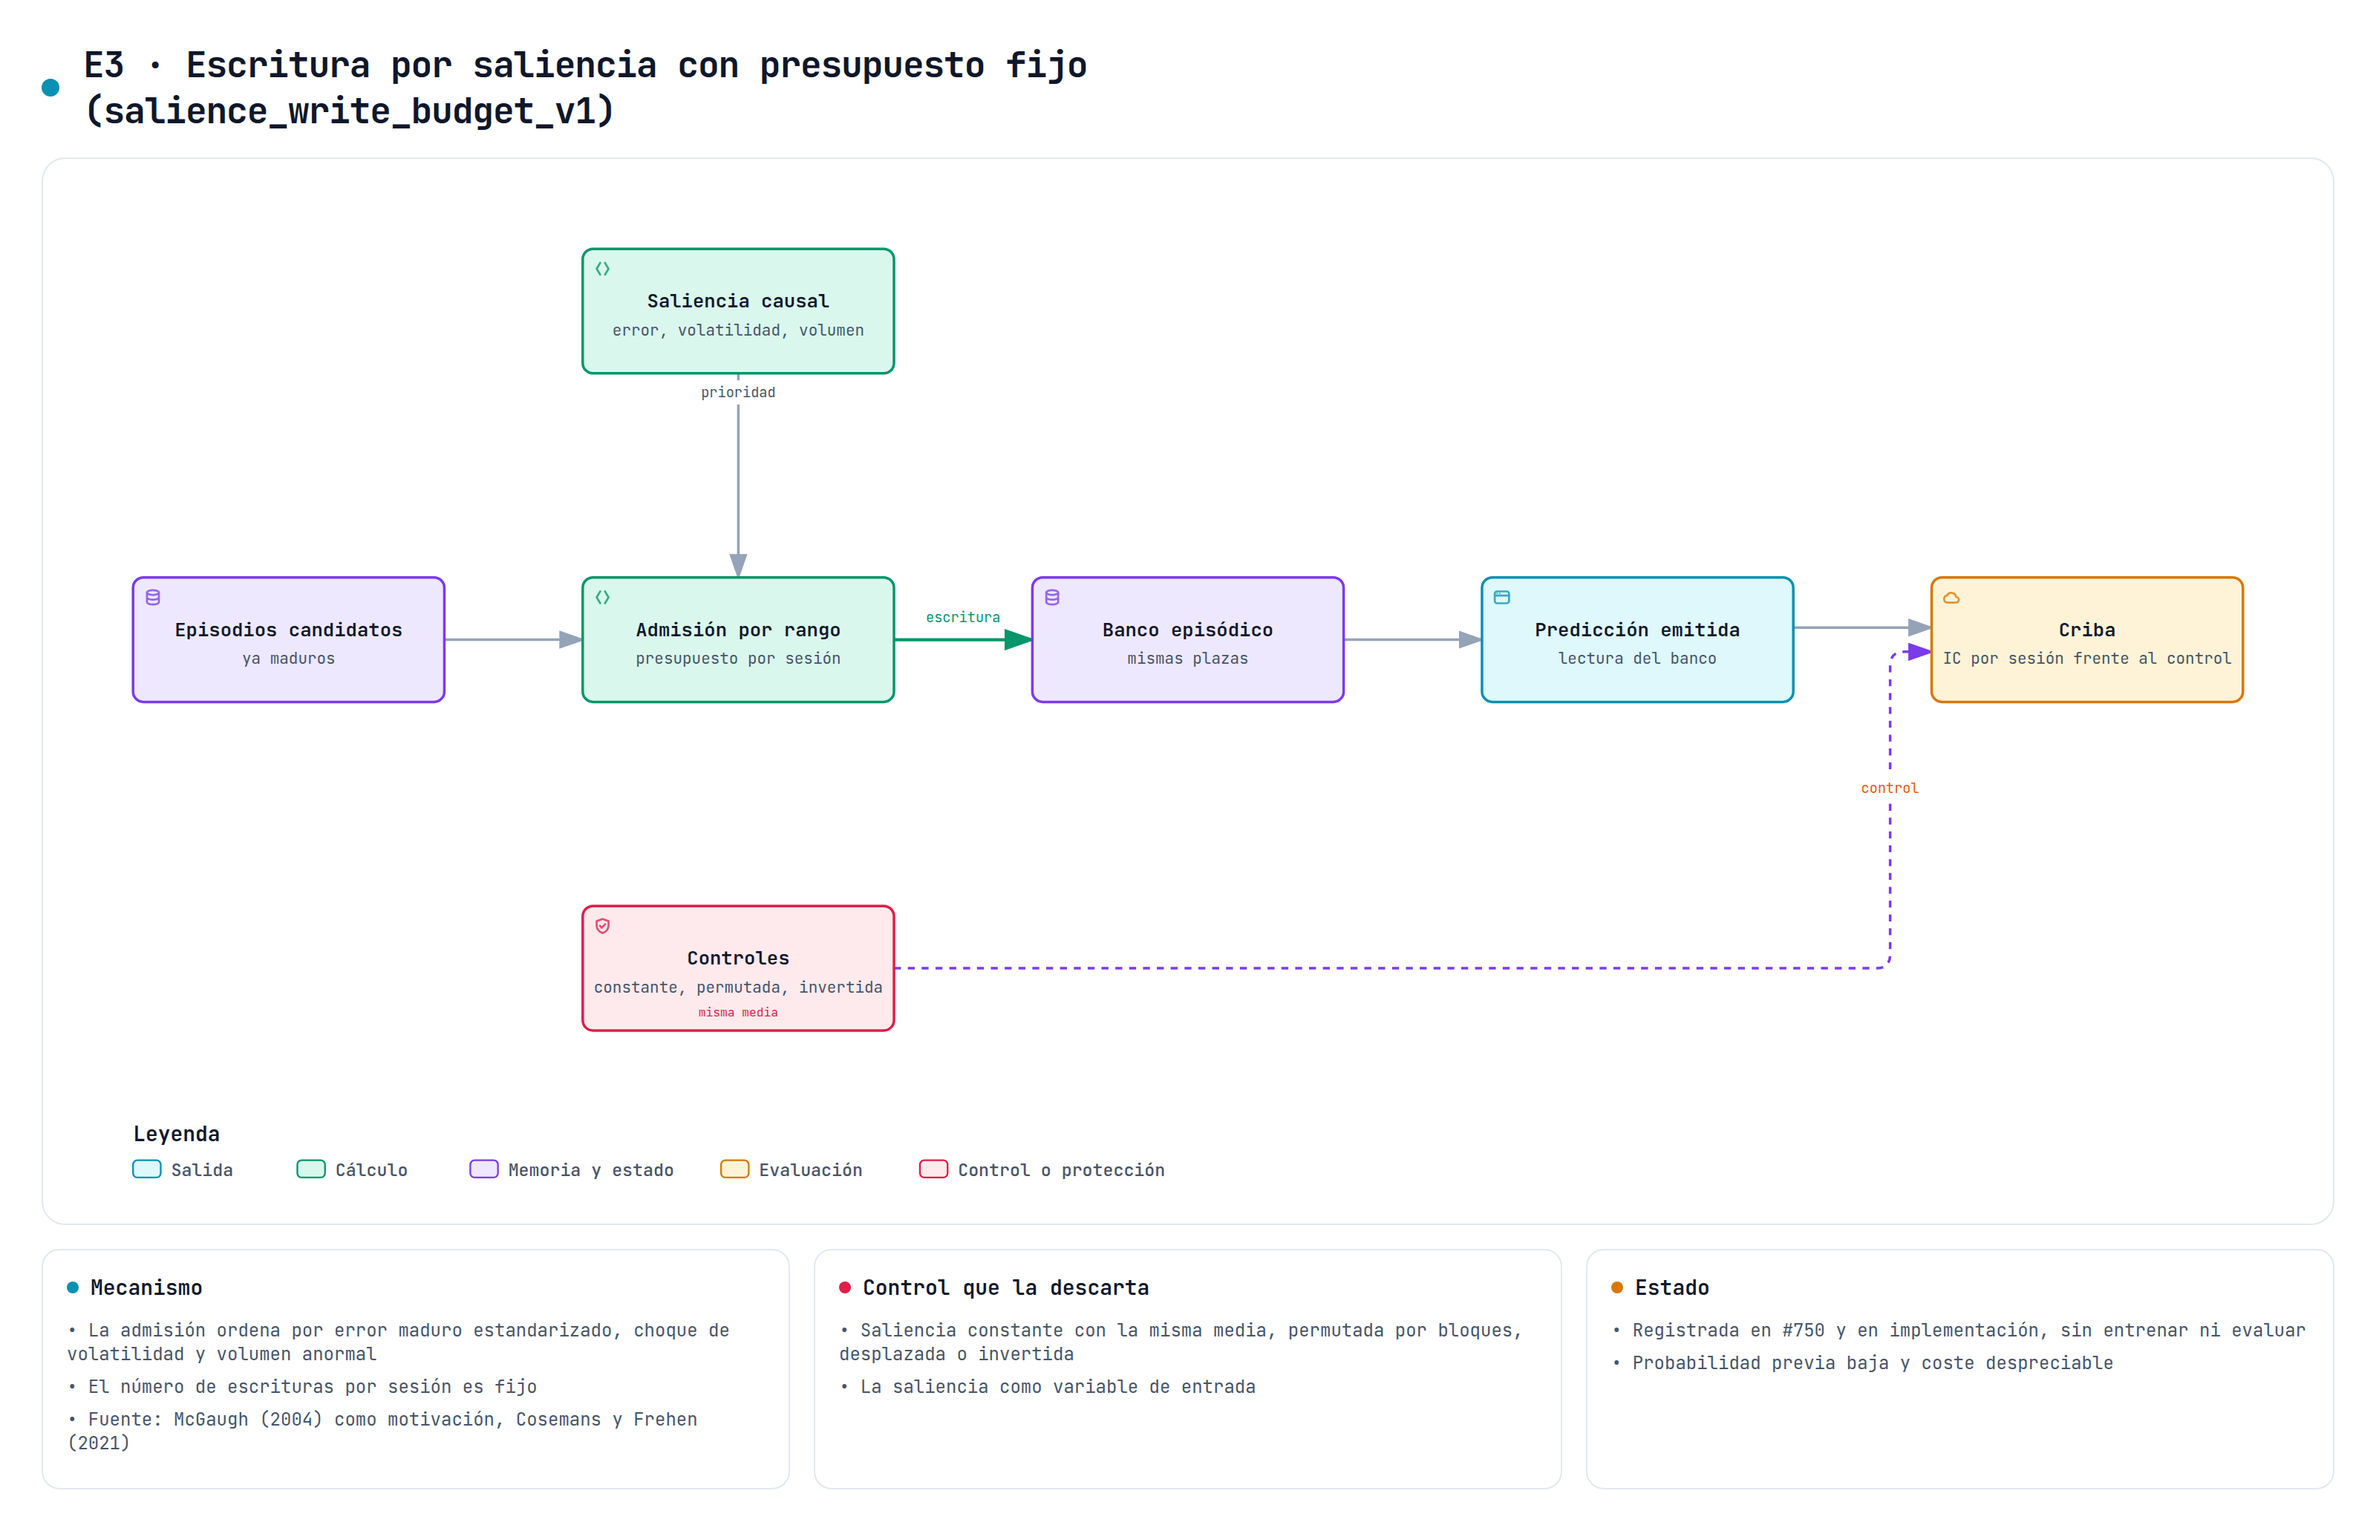
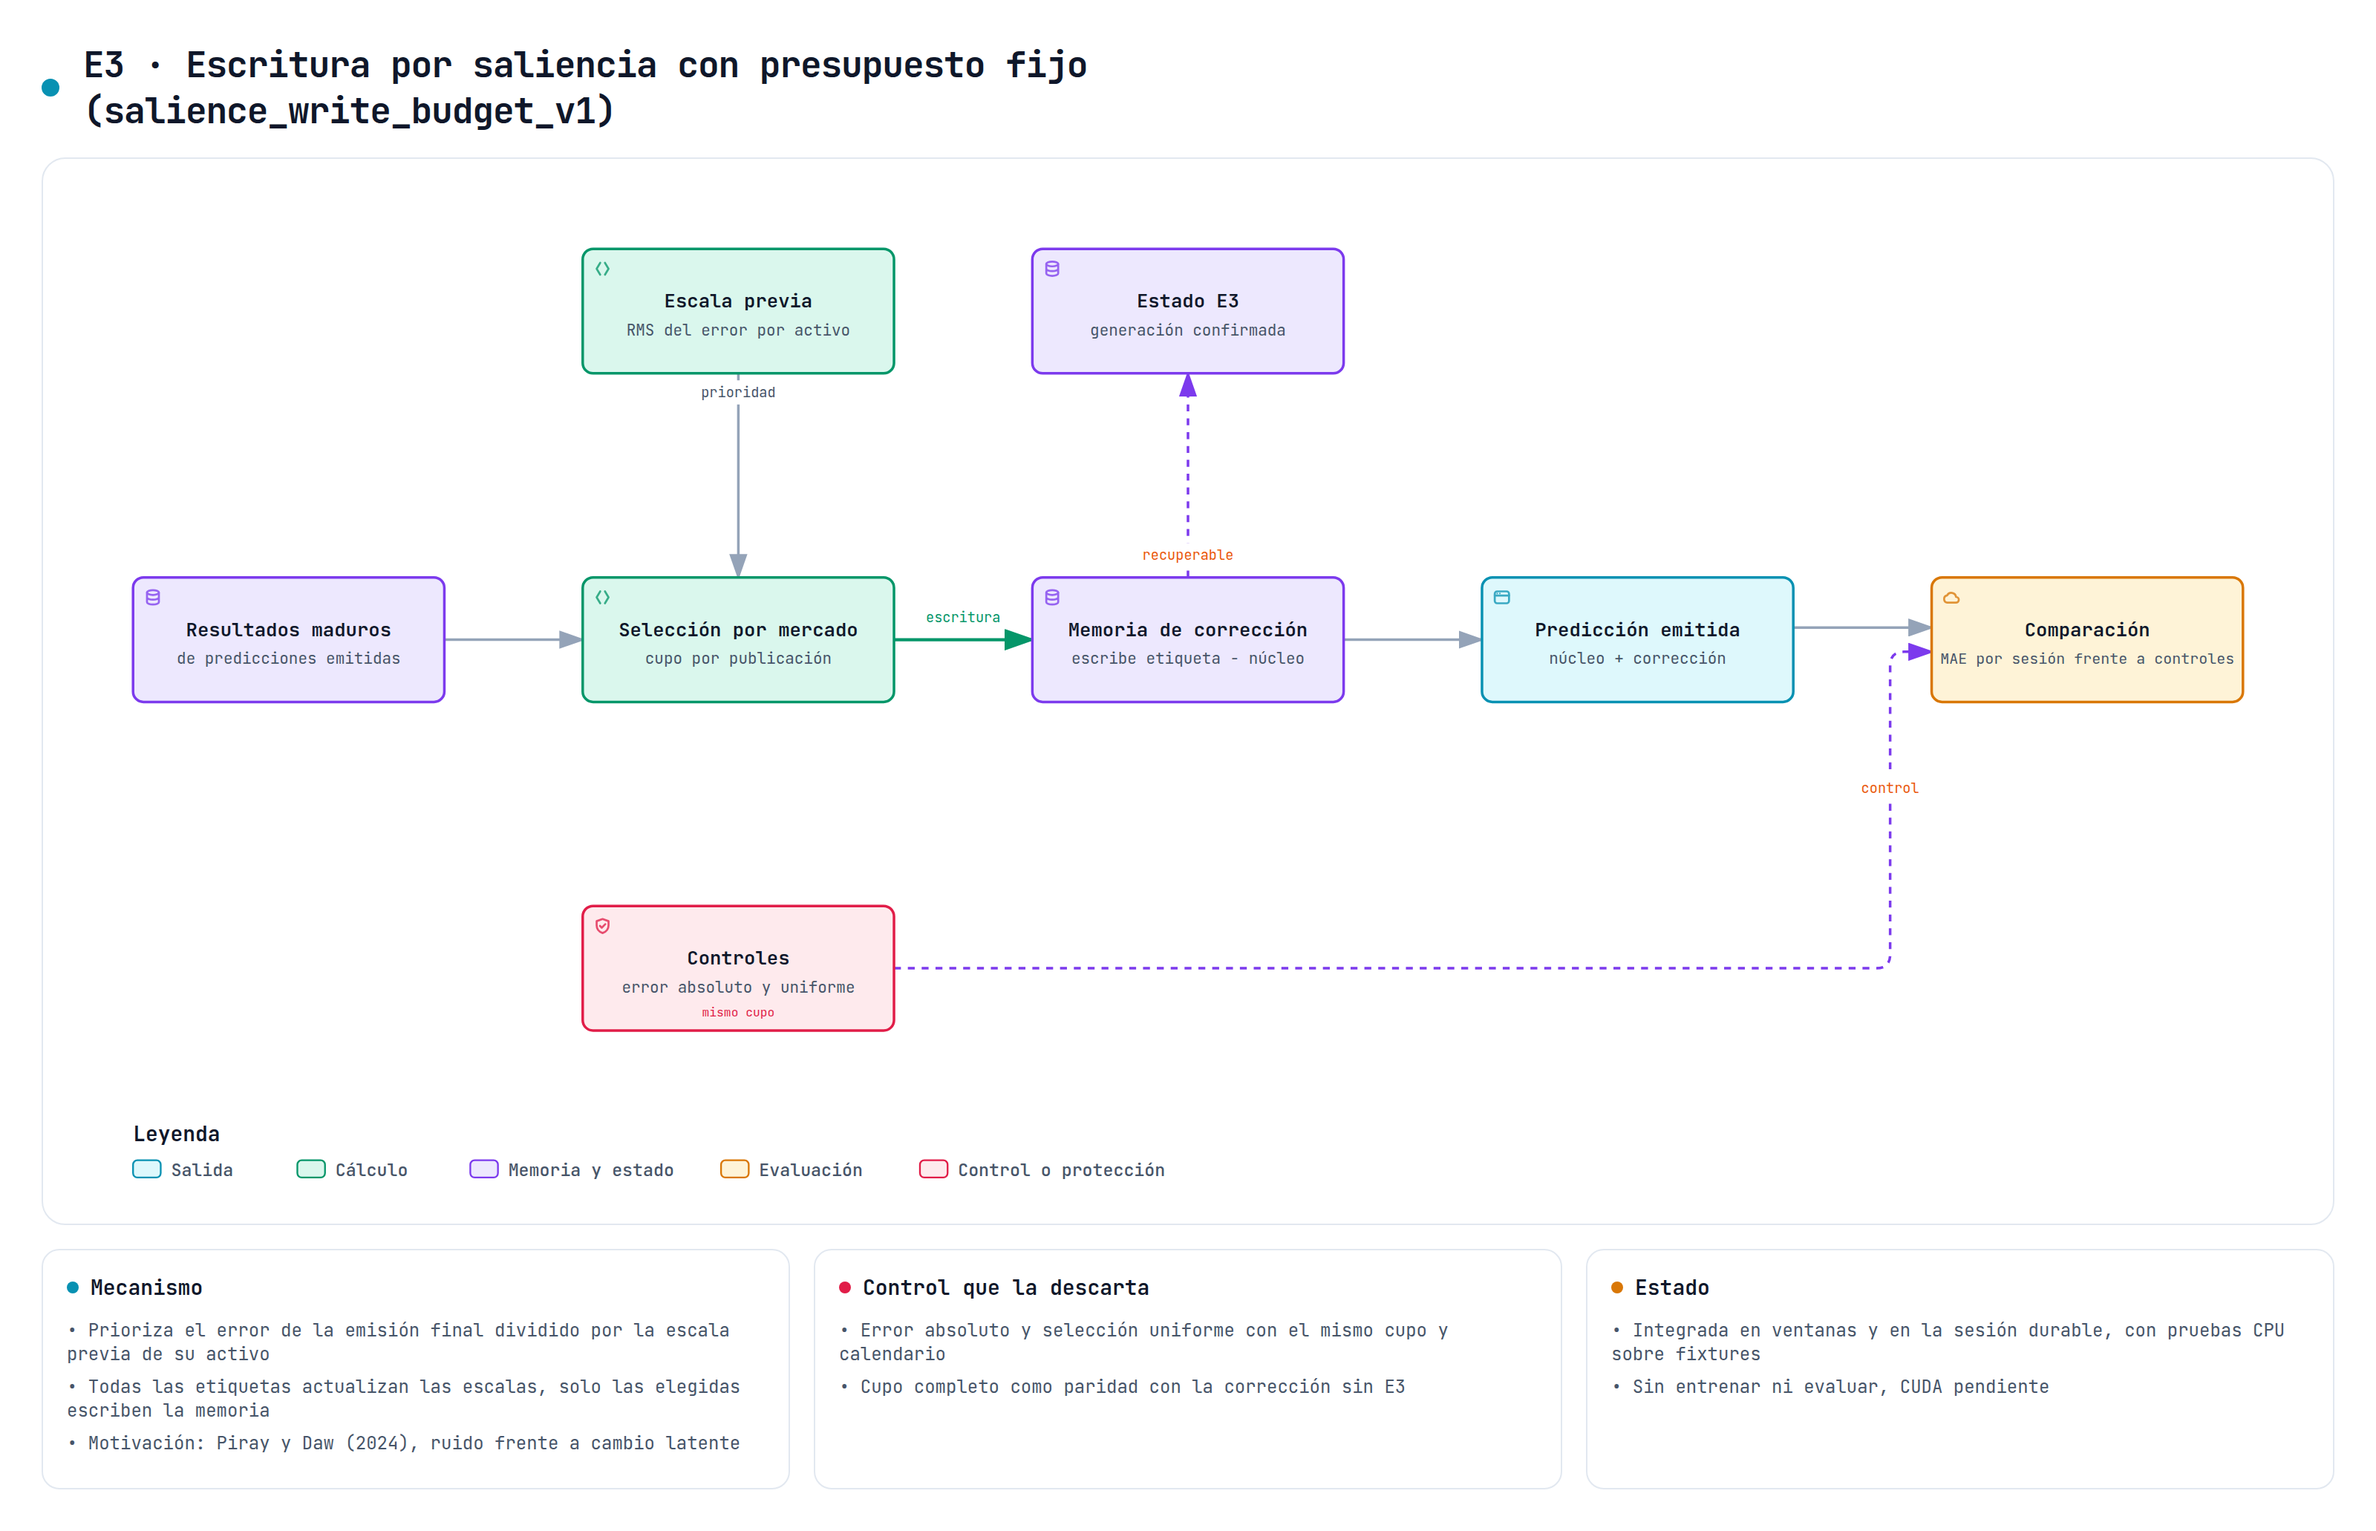
docs(experiments): describe E3 in the durable session and redraw its diagram

diff --git a/docs/experiments/salience-write-budget-v1.md b/docs/experiments/salience-write-budget-v1.md
@@ -1,6 +1,6 @@
 # Escrituras E3 con escala histórica por activo
 
-`salience_write_budget_v1` implementa un selector de candidatos maduros y su estado recuperable. La [declaración del núcleo](../../configs/experiments/salience-write-budget-v1.json) conserva tres controles opcionales. Su [integración por ventanas](../../configs/experiments/salience-correction-window-v1.json) conecta E3 con las emisiones reales del recorrido de corrección y dispone de comprobaciones CPU con fixtures. La sesión durable por evento sigue pendiente. No se modifican los parámetros compartidos del predictor ni los índices M0–M3. No hay una comparación predictiva ejecutada.
+`salience_write_budget_v1` implementa un selector de candidatos maduros y su estado recuperable. La [declaración del núcleo](../../configs/experiments/salience-write-budget-v1.json) conserva tres controles opcionales. Su [integración por ventanas](../../configs/experiments/salience-correction-window-v1.json) conecta E3 con las emisiones reales del recorrido de corrección y dispone de comprobaciones CPU con fixtures. La sesión durable `FinancialSession` también admite E3 desde el 28 de octubre, con un cupo por generación confirmada. No se modifican los parámetros compartidos del predictor ni los índices M0–M3. No hay una comparación predictiva ejecutada.
 
 El cupo del núcleo es por mercado y cohorte completa de publicación, no todavía por sesión de su calendario. Quien lo integre debe demostrar esa correspondencia o declarar un contraste distinto. Dividir un evento en varios cortes para renovar el cupo cambiaría el experimento.
 
@@ -74,7 +74,7 @@ La comprobación CPU cubre delta, proximal, B1, B2 y tres composiciones E1. La s
 
 La [declaración de ventanas](../../configs/experiments/salience-correction-window-v1.json) contiene argumentos comunes y los cuatro controles. Cada valor no nulo de `arms` se convierte mediante `SalienceBudgetConfig(**valores)` y se entrega al argumento `salience` del mismo lanzador. No modifica las recetas históricas, sus casos de búsqueda ni el padre seleccionado. La preparación de ese perfil no significa que se haya ejecutado su comparación científica.
 
-Cada fase reinicia el corrector y las escalas. La recuperación comprueba las fases confirmadas y repite desde el inicio una fase interrumpida, como hace B6. No hay un checkpoint E3 por decisión en `FinancialSession`. La fuente de ventanas agrupa el índice completo por instante antes de decodificar sus bloques y comprueba la disponibilidad de cada etiqueta contra ese índice. Este contrato de publicación no acredita todavía equivalencia con una sesión del calendario para toda posible llegada parcial o tardía.
+Cada fase reinicia el corrector y las escalas. La recuperación comprueba las fases confirmadas y repite desde el inicio una fase interrumpida, como hace B6. La sesión durable, descrita en el apartado siguiente, guarda en cambio el estado E3 en cada generación. La fuente de ventanas agrupa el índice completo por instante antes de decodificar sus bloques y comprueba la disponibilidad de cada etiqueta contra ese índice. Este contrato de publicación no acredita todavía equivalencia con una sesión del calendario para toda posible llegada parcial o tardía.
 
 Las fuentes de cada ejecución permanecen fijadas por huellas. Los recibos anteriores requieren su versión de código. No se rebajan esas comprobaciones para reanudar con otra implementación.
 
@@ -96,3 +96,31 @@ Cada ventana produce 384 filas con etiqueta para 64 activos y 1.536 para 256. Lo
 El [intento anterior](../../reports/engineering/salience-window-20261027/cost-incomplete-v2.json) conserva las 16 ventanas completadas de 64 activos y una medida parcial del bucle de fase. Terminó por límite de tiempo antes de completar 256. El [perfil de preparación](../../reports/engineering/salience-window-20261027/preparation-profile.json) mostró el coste de leer precios del fixture con grupos Parquet de tres filas. La medida final usa grupos de 8.192, conservando exactamente los mismos precios, muestras y etiquetas. La disposición anterior sigue por defecto en los otros fixtures. No se comparan esos dos formatos como un efecto del modelo.
 
 El arnés publica una muestra confirmada antes de seguir y conserva un recibo parcial ante un fallo posterior. Rechaza una salida existente para evitar cronometrar una relectura de informes como si fuera una inferencia nueva. La orden explícita es `PYTHONPATH=src:. uv run pytest -p tests.conftest benchmarks/salience_window_cost_check.py -q --junitxml=/tmp/mars-titan-salience-window-cost.xml`. El JSON de coste queda en una propiedad del XML. Solo utiliza fixtures propios y pesos fijados a mano. Las protecciones globales de entrenamiento y test final no se modifican.
+
+## Publicación durable en la sesión financiera
+
+`FinancialSession` acepta `salience=None` por defecto y entonces conserva su contrato, su identidad y sus artefactos. Con un `SalienceBudgetConfig` exige una corrección madura delta o proximal y registra la configuración en el contrato, en la identidad de integración y en la comprobación de cada paso. Cambiar el cupo durante la sesión o al reanudarla se rechaza.
+
+El cupo se aplica por generación nativa confirmada, no por sesión del calendario. `CommittedWriteBudget` reutiliza la puntuación y las escalas de `MatureWriteBudget` y añade la generación y el corte de cada publicación. Los candidatos son los resultados maduros que el ejecutor nativo acepta para predicciones pendientes ya emitidas. El ejecutor garantiza que cada resultado se aplica una sola vez, así que el estado E3 no guarda el historial de identidades. Dos publicaciones pueden compartir corte, por ejemplo una decisión y una liquidación en el mismo instante. Una etiqueta tardía también puede pertenecer a una decisión anterior a otra ya resuelta. Cada generación avanza su contador aunque no tenga resultados y la siguiente debe ser exactamente la anterior más uno, de modo que un reintento no renueva el cupo.
+
+La prioridad usa el error de la emisión final y el valor escrito sigue siendo etiqueta menos núcleo, como en las ventanas. Todos los resultados actualizan las escalas, pero solo los elegidos escriben la memoria A, incluidas las partes de E1 asociadas. Los diagnósticos B4 siguen observando todos los resultados. El calentamiento, las exclusiones por prefijo y las predicciones que se cierran sin etiqueta no crean errores.
+
+El estado E3 es un artefacto propio de cada generación, junto al banco, la memoria rápida, la cola pendiente y la memoria A, y se poda con la misma retención. Al verificar una generación se comprueba que las escrituras elegidas coinciden con las de A, que los resultados observados coinciden con los aplicados por el ejecutor y que la última selección pertenece a los resultados de ese evento. Al reanudar, A se concilia con las escrituras elegidas por E3 y no con todas las etiquetas aplicadas.
+
+La [verificación del 28 de octubre](../../reports/engineering/salience-session-20261028/verification.json) registra 114 pruebas CPU sin omisiones ni pasos de optimizador, 34 propias y 80 regresiones, con el enlace nativo compilado existente. Con cupo completo, E3 reproduce los puntos y la memoria de la referencia con la regla delta, con la mezcla E1 y con E1 junto a las áreas y el puente de consultas. Las pruebas cubren también cupo cero, prioridad por la emisión final, publicaciones parciales con el mismo corte, etiquetas tardías, cierres sin etiqueta, recuperación antes y después de confirmar, orden de activos, RNG y diagnósticos B4.
+
+Se detectan [ocho mutaciones dirigidas](../../reports/engineering/salience-session-20261028/mutations.json) con referencias verdes antes y después: escribir todos los resultados pese al cupo, puntuar con la etiqueta en vez de la emisión, exigir orden de decisiones entre publicaciones, admitir generaciones saltadas, conciliar A con todas las etiquetas, dos variantes de quitar la configuración del contrato y no avanzar la generación en eventos vacíos. Una de las dos variantes del contrato fallaba en el primer paso por una incoherencia interna, así que solo demostraba que ambas partes debían coincidir. La segunda la detecta la prueba porque el rechazo llega desde la restauración con otro mensaje. La [cobertura](../../reports/engineering/salience-session-20261028/quality.json) de `salience_session` y `salience_budget` es de 239/250 sentencias y 75/86 ramas, con CRAP máximo 23,8. La rama de error de `verify_confirmed` no se recorre. Es una comprobación defensiva frente a un estado E3 con huella válida pero incoherente con el registro nativo, que ninguna prueba fabrica. El [diagnóstico de `financial_session`](../../reports/engineering/salience-session-20261028/quality-support.json) se limita a esta batería y no describe todo el módulo.
+
+La [medida de coste](../../reports/engineering/salience-session-20261028/cost.json) recorre cinco controles con 64 y 256 activos ficticios del mercado US, con corrección proximal, un calentamiento y tres repeticiones. Cada caso prepara tres eventos, cierra y reabre la sesión, cronometra el evento 128 con todas las etiquetas del anterior, vuelve a cerrar y reabrir y ejecuta la transición siguiente. El cupo completo reproduce exactamente el estado de la referencia y cada caso repite su estado y su transición siguiente en todas las repeticiones. Los tres selectores usan cupo uno por mercado, así que escriben 3 de 192 resultados con 64 activos y 3 de 768 con 256.
+
+| Control | Mediana con 64 activos (s) | Mediana con 256 activos (s) |
+| --- | ---: | ---: |
+| Sin E3 | 1,612 | 5,076 |
+| Cupo completo | 1,779 | 5,293 |
+| Escala previa por activo | 1,449 | 4,955 |
+| Error absoluto | 1,569 | 6,462 |
+| Uniforme | 1,803 | 5,950 |
+
+La carga media del equipo estuvo entre 27 y 38 durante la medida, con otras pruebas en marcha. Con tres repeticiones y esa dispersión no se puede atribuir una diferencia de coste a ningún control. El proceso tardó 1.190 s y su RSS máximo fue de 822.976 KiB, incluida la preparación de los fixtures. Respecto a la referencia, el estado persistido crece entre 12 y 16 kB con 64 activos y entre 31 y 50 kB con 256. No se mide VRAM ni energía.
+
+Siguen pendientes la equivalencia con una sesión del calendario, las comprobaciones CUDA y la comparación predictiva con datos reales. Nada de esto acredita que E3 reduzca el error.

diff --git a/README.md b/README.md
@@ -206,7 +206,7 @@ La [memoria por áreas B1](docs/experiments/redundant-area-memory-v1.md) añade 
 
 [B3](docs/experiments/role-bound-keys-v1.md) liga esas claves al régimen observable de cada decisión mediante códigos bipolares. Se contrasta con calendario, rol constante y concatenación proyectada. La ruta queda guardada hasta la maduración de la etiqueta. El factor puede combinarse con B1 o B2 y permanece desactivado por defecto. No se utilizan sectores actuales como clasificaciones históricas ni se ha medido una mejora predictiva.
 
-El [selector de escrituras E3](docs/experiments/salience-write-budget-v1.md) compara error maduro escalado por el historial anterior del activo, error absoluto y selección uniforme al mismo cupo por mercado y publicación. Está conectado al recorrido de corrección y sus ventanas, con recuperación por fase y comprobaciones CPU sobre fixtures. La sesión durable por evento, el enlace con su calendario y CUDA siguen pendientes. No está activado por defecto ni hay una mejora predictiva medida.
+El [selector de escrituras E3](docs/experiments/salience-write-budget-v1.md) compara error maduro escalado por el historial anterior del activo, error absoluto y selección uniforme al mismo cupo por mercado y publicación. Está conectado al recorrido de corrección y sus ventanas, con recuperación por fase y comprobaciones CPU sobre fixtures. La sesión durable también lo admite, con un cupo por generación confirmada. El enlace con el calendario de sesiones y CUDA siguen pendientes. No está activado por defecto ni hay una mejora predictiva medida.
 
 [E1](docs/experiments/multiscale-mature-mixture-v1.md) combina correctores con semividas de calendario distintas y pesos actualizados con sus errores emitidos maduros. Conserva los componentes de cada decisión hasta disponer de su etiqueta. Tiene controles uniformes y de una sola escala, recuperación y costes CPU medidos. La comparación predictiva y la interoperabilidad CUDA siguen pendientes.
 
